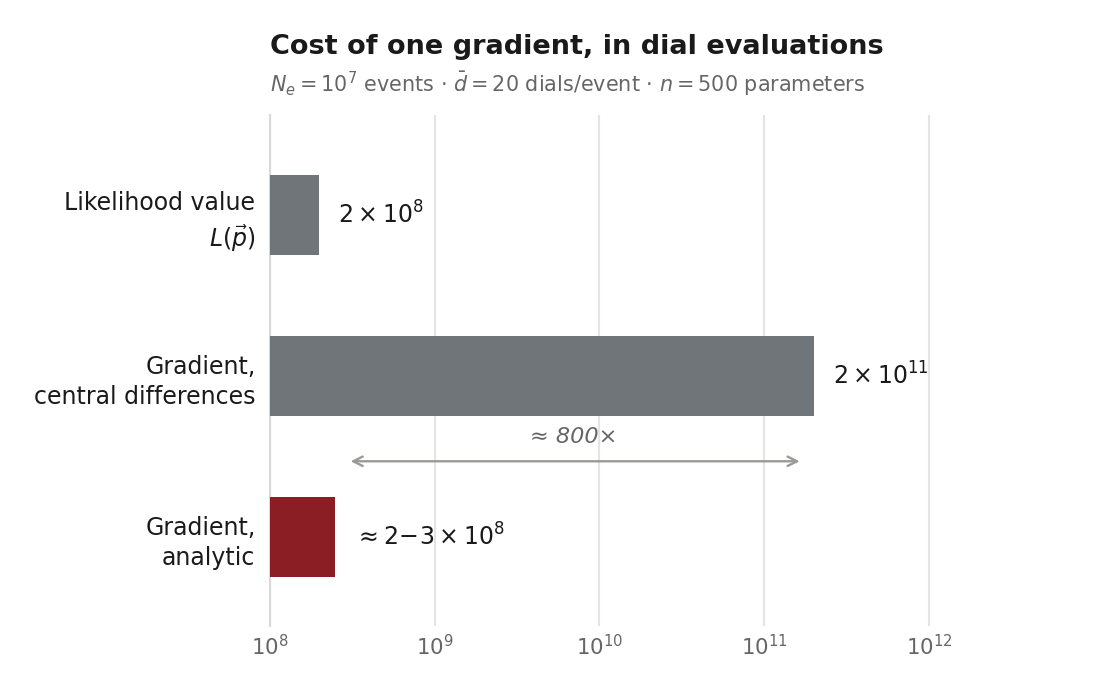
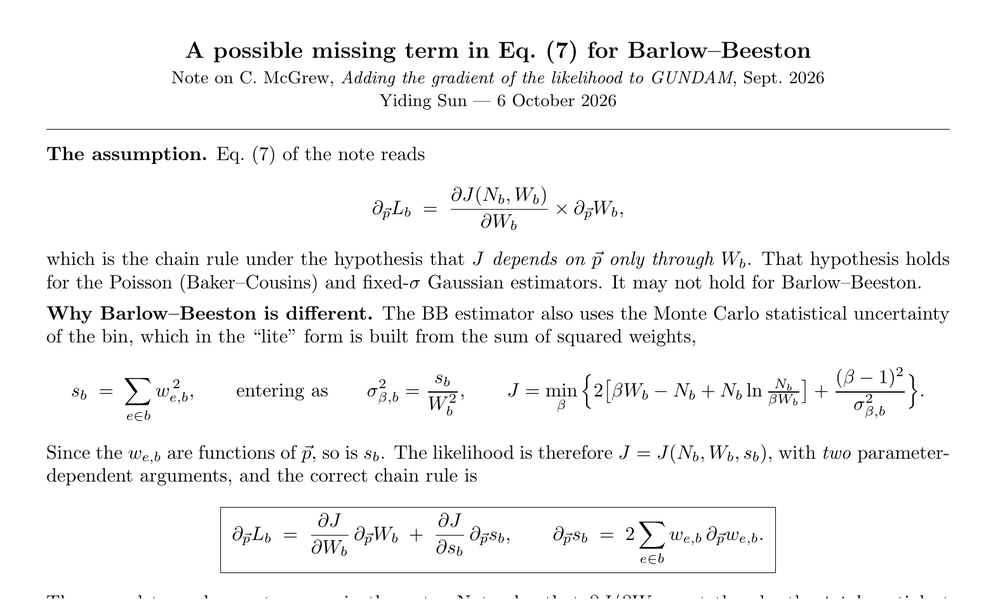
Update

diff --git a/index.html b/index.html
@@ -557,7 +557,7 @@
           <span>Y</span><span>i</span><span>d</span><span>i</span><span>n</span><span>g</span><span class="space">&nbsp;</span><span>S</span><span>u</span><span>n</span>
         </h1>
 
-        <p class="subtitle">Stony Brook University · Mathematics &amp; Computer Science</p>
+        <p class="subtitle">Stony Brook University · Mathematics &amp; Applied Mathematics</p>
 
         <p class="hero-links">
           <a href="mailto:yiding.sun@stonybrook.edu">Email</a>
@@ -568,13 +568,13 @@
         <p class="intro">
           I am a sophomore at
           <a href="https://www.stonybrook.edu/" target="_blank" rel="noreferrer">Stony Brook University</a>
-          majoring in Mathematics. I work with the
+          double-majoring in Mathematics and Applied Mathematics &amp; Statistics. I work with the
           <a href="https://www.stonybrook.edu/physics/nngroup/" target="_blank" rel="noreferrer">Neutrino and Nucleon Decay Group</a>
           under <a href="https://www.stonybrook.edu/physics/people/_profiles/riccioc.html" target="_blank" rel="noreferrer">Ciro Riccio</a>,
           working on the GUNDAM fitting framework for neutrino-oscillation analyses — most recently on
-          propagating analytic likelihood gradients out of its reweighting engine. I also work on
+          propagating analytic likelihood gradients out of its reweighting engine. I also explored
           equivariant graph neural networks with
-          <a href="https://you.stonybrook.edu/yuefandeng/" target="_blank" rel="noreferrer">Prof. Yuefan Deng</a>’s group.
+          <a href="https://you.stonybrook.edu/yuefandeng/" target="_blank" rel="noreferrer">Prof. Yuefan Deng</a>’s group in summer 2026.
           Before Stony Brook, I graduated from
           <a href="https://www.pkuschool.edu.cn/" target="_blank" rel="noreferrer">Peking University Affiliated High School</a>.
           My broader interests span Machine Learning, AI4Science, PDE, and QIQC.
@@ -590,7 +590,7 @@
         <li class="news-item">
           <span class="news-date">2026.09.08</span>
           <span class="news-text">
-            Started a new direction in GUNDAM — adding analytic likelihood gradients to the fitter —
+            Following the tutorial, began implementing analytic likelihood gradients in GUNDAM
             with <a href="https://www.stonybrook.edu/physics/people/_profiles/riccioc.html" target="_blank" rel="noreferrer">Ciro Riccio</a>
             and <a href="https://www.stonybrook.edu/commcms/physics/people/_profiles/mcgrewc" target="_blank" rel="noreferrer">Clark McGrew</a>.
           </span>
@@ -604,15 +604,6 @@
             as an official repository; developed with
             <a href="https://www.stonybrook.edu/physics/people/_profiles/riccioc.html" target="_blank" rel="noreferrer">Ciro Riccio</a>,
             reviewed with <a href="https://www.stonybrook.edu/physics/nngroup/members_temp.html" target="_blank" rel="noreferrer">Vlada Yevarouskaya</a>.
-          </span>
-        </li>
-
-        <li class="news-item">
-          <span class="news-date">2026.07.27</span>
-          <span class="news-text">
-            Began collaborating with
-            <a href="https://you.stonybrook.edu/yuefandeng/" target="_blank" rel="noreferrer">Bernard Tenreiro</a>
-            on pairwise message passing for equivariant graph networks.
           </span>
         </li>
 
@@ -636,8 +627,8 @@
 
     <section id="education" class="section">
       <h2>Education</h2>
-      <p><strong>Stony Brook University</strong>, B.S. in Mathematics</p>
-      <p>Accumulated GPA: 3.99/4.0</p>
+      <p><strong>Stony Brook University</strong>, B.S. in Mathematics and Applied Mathematics &amp; Statistics (double major)</p>
+      <p>Accumulated GPA: 3.98/4.0</p>
       <p>GPA: 4.0/4.0 (Fall 2025), 4.0/4.0 (Spring 2026), 4.0/4.0 (Summer 2026)</p>
       <p>
         <strong>Completed Core Coursework:</strong>
@@ -681,30 +672,33 @@
       <div class="pub-item">
         <div class="pub-thumb"><img src="assets/thumb-egnn.png" alt="Equivariance of a graph network: acting on the input by a group element and acting on the output commute"></div>
         <div class="pub-body">
-          <p class="pub-title">Pairwise Message Passing for Equivariant Graph Networks<span class="tag">Ongoing</span></p>
-          <p class="pub-venue">With Bernard Tenreiro, Prof. Yuefan Deng’s group · since July 2026</p>
+          <p class="pub-title">Equivariant Message Passing<span class="tag tag-done">Exploratory</span></p>
+          <p class="pub-venue">With Bernard Tenreiro, Prof. Yuefan Deng’s group · Summer 2026</p>
           <p class="pub-desc">
-            An edge-coloring decomposition of the message-passing graph that reduces the per-layer cost
-            of equivariant graph neural networks from O(|E|) to O(|V|), evaluated on QM9 molecular
-            property prediction. Training runs on Stony Brook’s SeaWulf A100 nodes.
+            Studied E(n)-equivariant message passing (EGNN, MPNN) and spectral graph methods, and set up
+            QM9 training on Stony Brook’s SeaWulf A100 cluster to test a matching-based (edge-coloring)
+            message-passing scheme. Exploratory; no results to report.
           </p>
-          <p class="pub-status">Code and results are not yet public.</p>
         </div>
       </div>
 
       <div class="pub-item">
-        <div class="pub-thumb"><img src="assets/thumb-gradient.png" alt="Bar chart: an analytic gradient costs about as much as one likelihood evaluation, roughly 800 times less than central differences"></div>
+        <div class="pub-thumb"><img src="assets/thumb-gradient.png" alt="Working note deriving the chain rule for the GUNDAM likelihood gradient under the Barlow–Beeston estimator"></div>
         <div class="pub-body">
           <p class="pub-title">Analytic Likelihood Gradients for GUNDAM<span class="tag">Ongoing</span></p>
-          <p class="pub-venue">With Ciro Riccio and Clark McGrew · since September 2026</p>
+          <p class="pub-venue">With Ciro Riccio and Clark McGrew · 2026–27</p>
           <p class="pub-desc">
-            GUNDAM currently exposes only the value of the likelihood. This work propagates the analytic
-            gradient out of the reweighting engine, where the derivative information is already latent.
-            A central-difference gradient over <em>n</em> parameters costs 2<em>n</em> full reweights;
-            the analytic gradient costs about the same as one — changing the cost of a gradient from
-            O(<em>n</em>) likelihood evaluations to O(1). This opens the fitter to quasi-Newton
-            minimisation, Fisher-matrix preconditioning, and Hamiltonian Monte Carlo in the
-            ~500-dimensional near-detector parameter space.
+            GUNDAM currently exposes only the value
+            of the likelihood, though the derivative information is already latent in its reweighting
+            engine. A central-difference gradient over <em>n</em> parameters costs 2<em>n</em> full
+            reweights; the analytic gradient costs about the same as one — changing the cost of a
+            gradient from O(<em>n</em>) likelihood evaluations to O(1). This opens the fitter to
+            quasi-Newton minimisation, Fisher-matrix preconditioning, and Hamiltonian Monte Carlo in
+            the ~500-dimensional near-detector parameter space. Alongside the implementation I am
+            working through the derivation in detail — how the chain rule behaves under the
+            Barlow–Beeston estimator, where the likelihood depends on the parameters through the summed
+            squared weights as well as the bin expectation, and what that implies for the gradient
+            storage API.
           </p>
         </div>
       </div>
